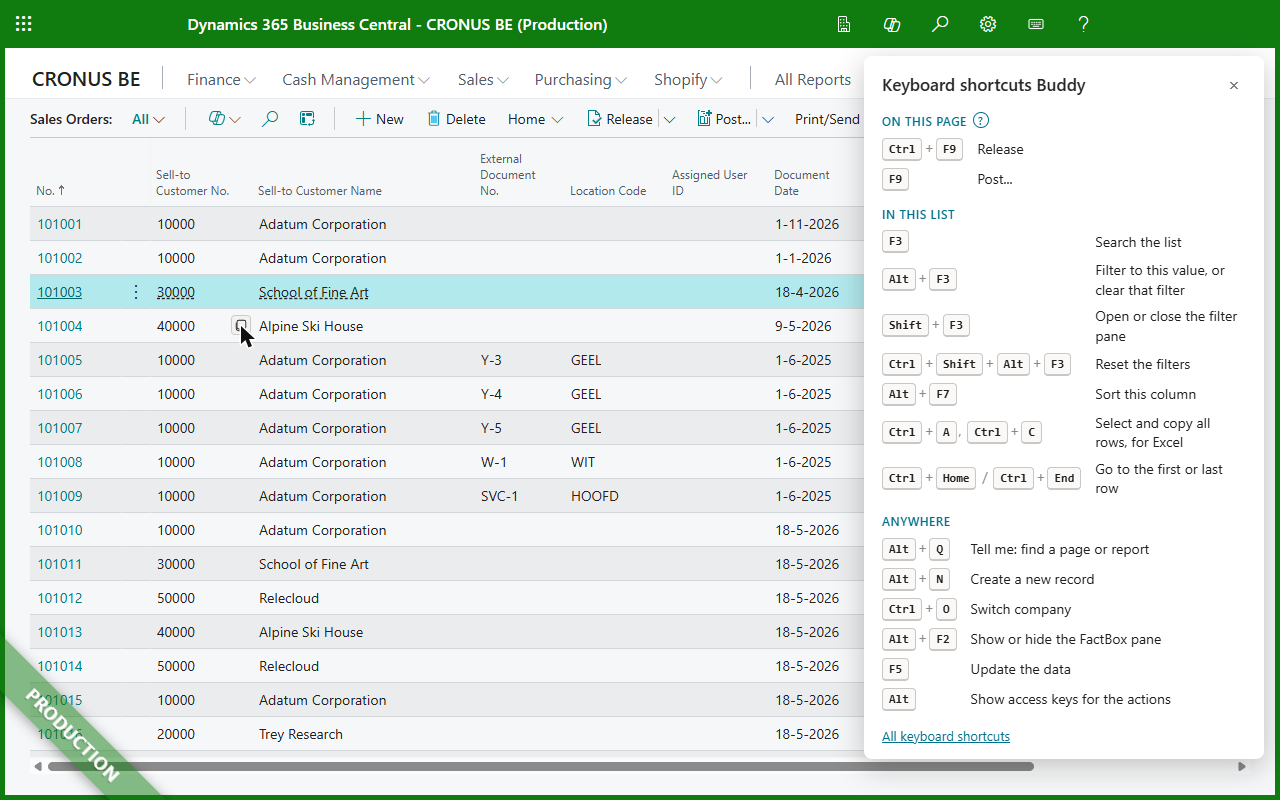
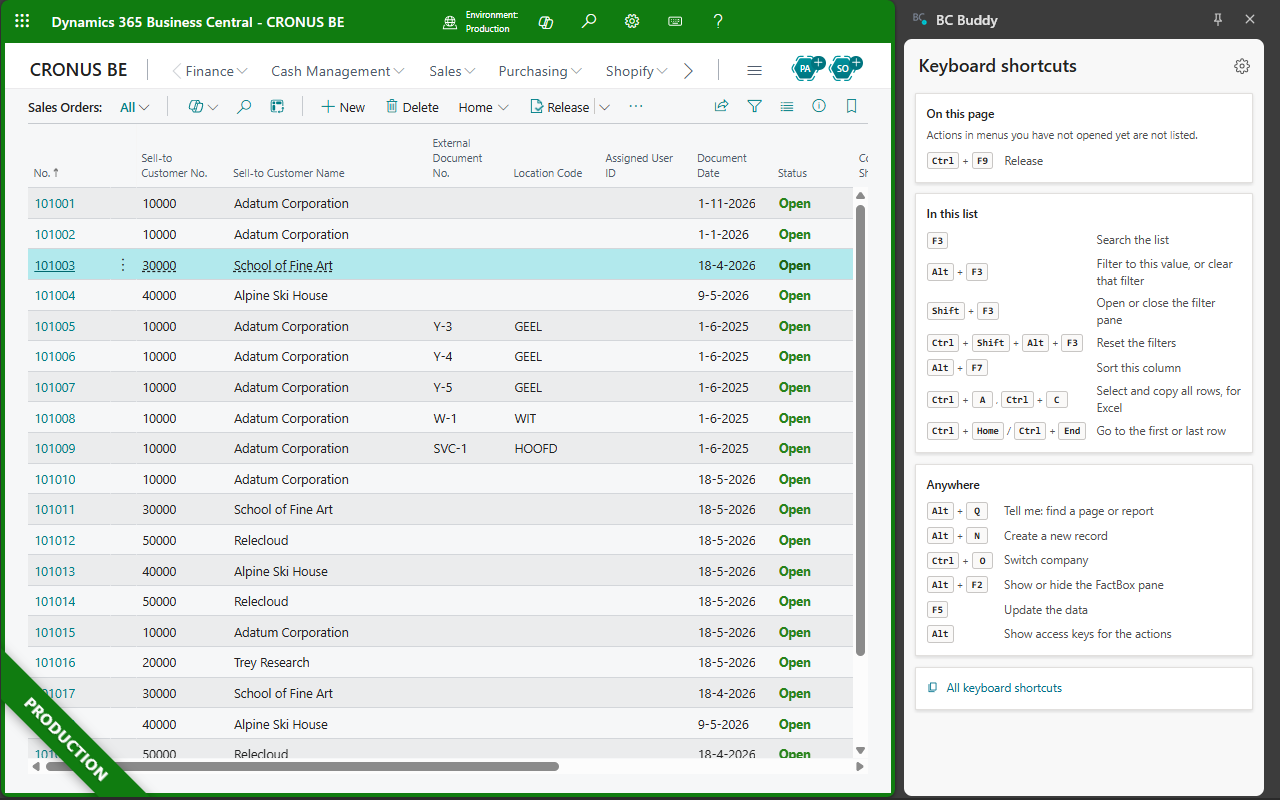
Store screenshot with the shortcuts side panel
The Sales Orders store screenshot now shows the keyboard shortcuts in the
browser's side panel. Taken by the maintainer and padded to the store's
1280x800 by a few pixels of window frame; no logo, name or picture in it.
The alt text in the README and on the site's home page says what it shows.

Performance and security: screenshot and docs only, no code.

Changed region(s): [[0.0, 0.0, 1.0, 1.0]]

diff --git a/README.md b/README.md
@@ -77,7 +77,7 @@ exactly alike. BC Buddy colours the bar at the top of Business Central, with
 your own text, and can add a bar above it, a coloured frame, a banner, a
 marked tab title and a coloured tab icon.
 
-![The Sales Orders list in Business Central with a green bar reading "CRONUS BE (Production)", a green frame around the window and a diagonal Production banner in the bottom-left corner. The keyboard shortcuts panel is open on the right](store/screenshot-4-sales-orders-1280x800.png)
+![The Sales Orders list in Business Central with a green top bar, a green frame around the page and a diagonal Production banner in the bottom-left corner. The keyboard shortcuts side panel is open on the right](store/screenshot-4-sales-orders-1280x800.png)
 
 You set this up under **Environments** on the settings page:
 

diff --git a/docs/index.md b/docs/index.md
@@ -40,7 +40,7 @@ window, a banner, a marked tab title and a coloured tab icon. You choose the col
 company or per customer.
 
 <figure markdown>
-![The Sales Orders list in Business Central with a green bar reading "CRONUS BE (Production)", a green frame around the window and a diagonal Production banner in the bottom-left corner. The keyboard shortcuts panel is open on the right](assets/screenshot-4-sales-orders-1280x800.png)
+![The Sales Orders list in Business Central with a green top bar, a green frame around the page and a diagonal Production banner in the bottom-left corner. The keyboard shortcuts side panel is open on the right](assets/screenshot-4-sales-orders-1280x800.png)
 <figcaption>Production marked in green: the bar at the top, a frame and a corner banner.</figcaption>
 </figure>
 
